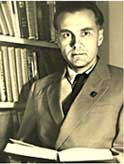
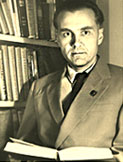
portrait image update, styles update, social buttons and top menu styles update

diff --git a/css/dnpb.css b/css/dnpb.css
@@ -31,7 +31,7 @@ margin:3px -20px 0 0;
 
 header .form-control {
 	height:28px;
-	padding:6px 6px;
+	padding:8px 6px 4px 6px;
 }
 /*
 a, a:hover, a:visited {
@@ -85,7 +85,7 @@ header .nav > li > a:focus, header .nav > li > a:hover {
 	font-size:16px;
 	padding-top:0px;
 	line-height:1.3;
-
+	margin-bottom:-2px;
 }
 
 .dnpb_title p{
@@ -141,7 +141,7 @@ header .nav > li > a:focus, header .nav > li > a:hover {
 }
 
 .dnpb_topmenu li a, .dnpb_langmenu li a {
-	padding: 5px 15px;
+	padding: 0px 15px;
 	color:#453b31;
 	text-decoration: underline;
 	font-size:12px;
@@ -155,10 +155,19 @@ header .nav > li > a:focus, header .nav > li > a:hover {
 .dnpb_socials {
 	color:white;
 	padding:0px;
+	float:right;
+}
+.dnpb_socials div {
+	margin-left:-14px;
+	padding-right:14px;
+}
+.dnpb_socials div a {
+	float:right;
+	margin-left:30px;
 }
 
 .dnpb_socials  .azm-size-32 {
-	margin:0px;
+	margin:-8px 0 0 3px;
 }
 
 .nav-pills > li.active > a, .nav-pills > li.active > a:focus, .nav-pills > li.active > a:hover {
@@ -177,14 +186,14 @@ div.dnpb-portrait {
 	height:200px;
 	background-image: url("../img/s_portrait.jpg");
 	background-repeat: no-repeat;
-	background-position: 20px 15px;
+	background-position: 20px 4px;
 }
 div.dnpb-portrait-lg {
 	width:100%;
 	height:200px;
 	background-image: url("../img/s_portrait.jpg");
 	background-repeat: no-repeat;
-	background-position: 35px 15px;
+	background-position: 35px 5px;
 }
 
 /* Address */
@@ -193,7 +202,7 @@ div.dnpb-portrait-lg {
 }
 
 .dnpb_address address {
-	font-size:11px;
+	font-size:12px;
 	margin-bottom:0px;
 }
 

diff --git a/index.html b/index.html
@@ -79,9 +79,11 @@
 									</div>
 
 									<div class="col-md-5 hidden-sm dnpb_socials">
+									<div>
 								<a href="#" class="btn azm-social azm-size-32 azm-r-square azm-rss" style="color:white"><i class="fa fa-rss"></i></a>
 								<a href="#" class="btn azm-social azm-size-32 azm-r-square azm-facebook"  style="color:white"><i class="fa fa-facebook"></i></a>	
 								<a href="#" class="btn azm-social azm-size-32  azm-r-square azm-linkedin"><i class="fa fa-linkedin" style="color:white"></i></a>
+									</div>
 									</div>
 								</div>
 								<div class="row">
